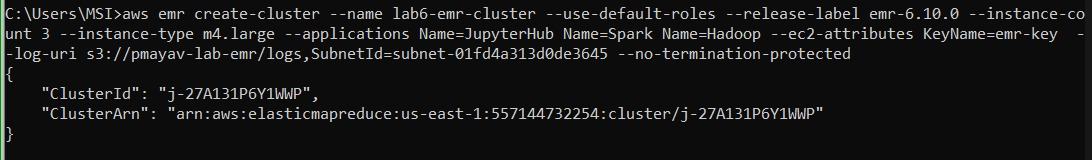
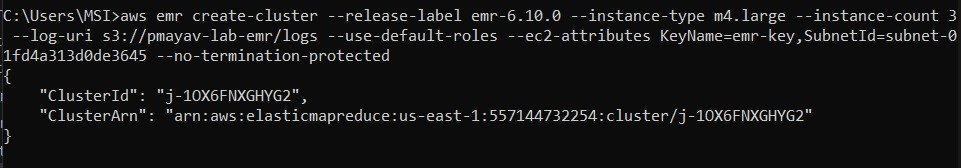
README

Changed region(s): [[0.0, 0.0, 0.999, 1.0]]

diff --git a/README.md b/README.md
@@ -1,0 +1,160 @@
+# Reto de programación N1
+
+**Curso:** Tópicos Especiales en Telemática <br>
+**Título:** Comunicación entre Procesos Remotos: gRPC.
+
+---
+
+## Tabla de Contenido
+
+1. [Introducción](#introduction)
+2. [Problemas](#problemas)
+3. [Recursos](#resources)
+4. [Desarrollo](#development) 
+5. [Despliegue](#deployment) <br>
+
+---
+
+## 1. Introducción
+
+En este reto de laboratorio aprendí a crear clusters en AWS y los puse en práctica.
+
+---
+
+## 2. Problemas
+
+Tuve que cambiar un poco el código de 'wordcount-local.py' y documentarme bien acerca de los comandos para poder editarlos con los respectivos permisos.
+
+---
+
+## 3. Recursos
+
+Utilicé los conocimientos dados en el Laboratorio 5 y comandos tomados y adaptados de:
+- [Repositorio del Laboratorio N6-MapReduce](https://github.com/ST0263/st0263-2023-1/tree/main/Laboratorio%20N6-MapReduce)
+- [Guía de instalación de AWS CLI](https://docs.aws.amazon.com/cli/latest/userguide/getting-started-install.html)
+- [Cómo crear y ejecutar un clúster EMR utilizando AWS CLI](https://towardsdatascience.com/how-to-create-and-run-an-emr-cluster-using-aws-cli-3a78977dc7f0#6df6)
+- [Hadoop: Cómo listar archivos y directorios usando HDFS dfs](https://sparkbyexamples.com/apache-hadoop/hadoop-how-to-list-files-and-directories-using-hdfs-dfs/)
+
+---
+
+## 4. Desarrollo
+
+Estos pasos solo los tuve que realizar una vez:  
+
+Creación del S3:
+![S3](./images/S3.png)
+
+Edición del security group de la Node Primaria/Master para que reciba SSH de todos lados:
+![securitySSH](./images/securitySSH.png)
+
+Para instalar el AWS CLI, usa el siguiente comando:
+'''sh
+msiexec.exe /i https://awscli.amazonaws.com/AWSCLIV2.msi
+'''
+Tomado de [Guía de instalación de AWS CLI](https://docs.aws.amazon.com/cli/latest/userguide/getting-started-install.html)
+![AWSCLIinstall](./images/AWSCLIinstall.jpeg)
+
+Se necesita crear una carpeta en el directorio root del usuario llamada '.aws' y dentro de ella se crean 2 archivos sin extensión llamados 'credentials' y 'config':
+
+![AWSCredentials](./images/AWSCredentials.png)
+
+'''plaintext
+[default]
+aws_access_key_id=
+aws_secret_access_key=
+aws_session_token=
+'''
+
+---
+
+## 5. Laboratorio 5
+
+Crea el cluster usando la interfaz gráfica de AWS:
+
+![Lab5-1](./images/Lab5-1.png)
+![Lab5-2](./images/Lab5-2.png)
+![Lab5-3](./images/Lab5-3.png)
+![Lab5-4](./images/Lab5-4.png)
+
+Instalación de requerimientos:
+'''sh
+sudo yum install python3-pip &&
+sudo pip3 install mrjob &&
+sudo yum install git -y
+'''
+
+Clonar el repositorio:
+'''sh
+git clone https://github.com/pmayavi/LabReto6_TET_PabloMayaV.git
+cd LabReto6_TET_PabloMayaV/wordcount
+'''
+
+Prueba del código:
+'''sh
+python wordcount-mr.py /home/hadoop/LabReto6_TET_PabloMayaV/datasets/gutenberg-small/*.txt
+'''
+![wordcountFuncinal](./images/wordcountFuncinal.jpeg)
+
+---
+
+
+*******
+<div id='awscli'/>  
+
+### **6. Creacion cluster por AWS CLI**
+
+Se crea la cluster desde la consola con las especificaciones dadas usando AWS CLI:
+```sh
+aws emr create-cluster --release-label emr-6.10.0 --instance-type m4.large --instance-count 3 --log-uri s3://pmayav-lab-emr/logs --use-default-roles --ec2-attributes KeyName=emr-key,SubnetId=subnet-01fd4a313d0de3645 --no-termination-protected
+```
+
+Luego de que se cree correctamente el cluster se toma el nombre DNS de la Node Primaria/Master
+![PrimaryNode](https://raw.githubusercontent.com/pmayavi/LabReto6_TET_PabloMayaV/main/images/PrimaryNode.png)
+y se establece la conexion:
+```sh
+ssh -i emr-key.pem hadoop@ec2-44-192-253-171.compute-1.amazonaws.com
+```
+
+*******
+<div id='mainnode'/>  
+
+### **7. Funcionalidad de la Main Node**
+
+Instalacion de requerimientos:
+```sh
+sudo yum install python3-pip &&/
+sudo pip3 install mrjob &&/
+sudo yum install git -y
+```
+
+Clonar el repositorio:
+```sh
+git clone https://github.com/pmayavi/LabReto6_TET_PabloMayaV.git
+cd LabReto6_TET_PabloMayaV/wordcount
+```
+
+Creacion de usuario admin de Hadoof y copiar los datasets al usuario:
+```sh
+hdfs dfs -mkdir /user/admin/
+hdfs dfs -copyFromLocal /home/hadoop/LabReto6_TET_PabloMayaV/datasets/ /user/admin/
+```
+
+Ejecutamos el wordcount-mr.py en los datasets de Hadoof, el output resultara en la carpeta 'output1'
+```sh
+python wordcount-mr.py hdfs:///user/admin/datasets/gutenberg-small/*.txt -r hadoop --output-dir hdfs:///user/admin/output1
+```
+Podemos ver las partes del output usando el comando:
+```sh
+hdfs dfs -ls -r /user/admin/output1/
+```
+Y con el comando para ver cada parte por su cuenta:
+```sh
+hdfs dfs -cat /user/admin/output1/part-00000
+```
+
+*******
+<div id='reto1'/>  
+
+### **8. Reto de programacion 1**
+
+*******
